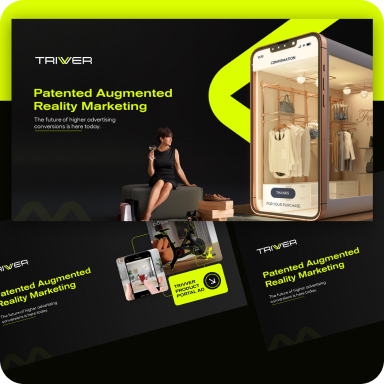
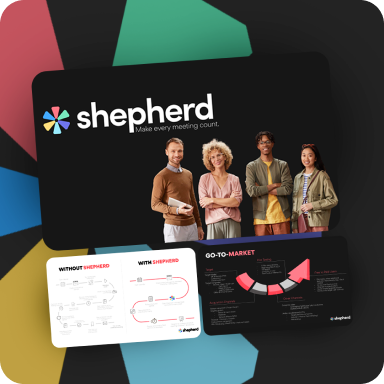
add functionaility

diff --git a/components/ContactUs/ContactUsSection.jsx b/components/ContactUs/ContactUsSection.jsx
@@ -5,7 +5,10 @@ import contactTabletImg from "@/assets/images/contactus/contactus-img.png";
 
 const ContactUsSection = () => {
   return (
-    <div className="w-[80%] flex justify-between gap-10 pb-20 pt-10 bgContactUs mx-auto">
+    <div
+      className="w-[80%] flex justify-between gap-10 pb-20 pt-10 bgContactUs mx-auto"
+      id="contact"
+    >
       <div className=" xl:w-[60%] md:w-[50%] flex flex-col gap-10 ">
         <h3 className="fontGivonic xl:text-[52px] md:text-[36px] font-semibold xl:leading-[60px] md:leading-[50px] capitalize">
           Claim Your{" "}
@@ -23,32 +26,17 @@ const ContactUsSection = () => {
       <form className="xl:w-[40%] md:w-[50%] flex flex-col justify-start items-end xl:gap-7 md:gap-4">
         <div className=" flex flex-col gap-3 w-full">
           <label
-            htmlFor="firstName"
+            htmlFor="fullname"
             className="fontGivonic xl:text-xl md:text-lg font-semibold tracking-[1.5px]"
           >
-            First Name
+            Full Name
           </label>
           <input
             type="text"
-            id="firstName"
-            name="firstName"
+            id="fullname"
+            name="fullname"
             required
             className=" contactInputShadow text-lg font-medium tracking-[1.5px] bg-white xl:py-4 md:py-3 px-4 rounded-lg focus:outline-none"
-          />
-        </div>
-        <div className=" flex flex-col gap-3 w-full">
-          <label
-            htmlFor="lastname"
-            className="fontGivonic xl:text-xl md:text-lg font-semibold tracking-[1.5px]"
-          >
-            Last Name
-          </label>
-          <input
-            type="text"
-            id="lastname"
-            name="lastname"
-            required
-            className=" contactInputShadow xl:text-lg md:text-base font-medium tracking-[1.5px] bg-white xl:py-4 md:py-3 px-4 rounded-lg focus:outline-none"
           />
         </div>
         <div className=" flex flex-col gap-3 w-full">
@@ -56,7 +44,7 @@ const ContactUsSection = () => {
             htmlFor="email"
             className="fontGivonic xl:text-xl md:text-lg font-semibold tracking-[1.5px]"
           >
-            Email
+            Your Email
           </label>
           <input
             type="email"
@@ -68,19 +56,39 @@ const ContactUsSection = () => {
         </div>
         <div className=" flex flex-col gap-3 w-full">
           <label
-            htmlFor="country"
+            htmlFor="phone"
             className="fontGivonic xl:text-xl md:text-lg font-semibold tracking-[1.5px]"
           >
-            Country
+            Phone Number (Optional)
           </label>
           <input
             type="text"
-            id="country"
-            name="country"
+            id="phone"
+            name="phone"
+            // required
+            className=" contactInputShadow xl:text-lg md:text-base font-medium tracking-[1.5px] bg-white xl:py-4 md:py-3 px-4 rounded-lg focus:outline-none"
+          />
+        </div>
+        <div className=" flex flex-col gap-3 w-full">
+          <label
+            htmlFor="message"
+            className="fontGivonic xl:text-xl md:text-lg font-semibold tracking-[1.5px]"
+          >
+            What's on your mind
+          </label>
+          <input
+            type="text"
+            id="message"
+            name="message"
             required
             className=" contactInputShadow xl:text-lg md:text-base font-medium tracking-[1.5px] bg-white xl:py-4 md:py-3 px-4 rounded-lg focus:outline-none"
           />
         </div>
+        <input
+          name="file"
+          type="file"
+          className=" w-full xl:text-lg md:text-base font-medium text-[#7A7A7A] cursor-pointer focus:outline-none"
+        />
         <div className="flex flex-col xl:gap-8 md:gap-5 w-full xl:mt-4 md:mt-2">
           <p className="fontGivonic xl:text-xl md:text-[15px] font-medium capitalize">
             get An instant quote from our customer support or submit the form

diff --git a/components/shared/Footer.jsx b/components/shared/Footer.jsx
@@ -1,3 +1,4 @@
+'use client'
 import Image from "next/image";
 import React from "react";
 import footerImg from "@/assets/images/footer-img.png";
@@ -13,6 +14,9 @@ import trustPilotImg from "@/assets/images/shared/trustpilot.png";
 import Link from "next/link";
 
 const Footer = () => {
+  const scrollToAbout = () => {
+    document.getElementById('contact').scrollIntoView({ behavior: 'smooth' });
+  };
   return (
     <section className=" bg-[#0F0F16] mt-20">
       <div className="xl:w-4/5 md:w-[85%] flex flex-col justify-center items-center gap-16 mx-auto py-24">
@@ -24,6 +28,7 @@ const Footer = () => {
             <button
               className=" xl:text-[22px] md:text-[18px] font-semibold text-[#090909] bg-[#86E2FF] rounded-[15px] py-3 xl:px-6 md:px-4 tracking-wider
             transition-all duration-300 ease-in-out transform-gpu hover:scale-105"
+            onClick={scrollToAbout}
             >
               Claim Your Free Slide
             </button>
@@ -64,25 +69,25 @@ const Footer = () => {
             <h3 className=" text-lg text-[#fff] mb-0">Find Us On</h3>
             <div className=" flex items-center gap-5">
               <Link
-                href={"#"}
+                href={"/"}
                 className=" bg-[#86E2FF] rounded-[50%] py-[10px] px-3 transition-all duration-300 ease-in-out transform-gpu hover:scale-110"
               >
                 <RiInstagramLine className=" text-[26px]" />
               </Link>
               <Link
-                href={"#"}
+                href={"/"}
                 className=" bg-[#86E2FF] rounded-[50%] py-[10px] px-3 transition-all duration-300 ease-in-out transform-gpu hover:scale-110"
               >
                 <FaPinterestP className=" text-[26px]" />
               </Link>
               <Link
-                href={"#"}
+                href={"/"}
                 className=" bg-[#86E2FF] rounded-[50%] py-[10px] px-3 transition-all duration-300 ease-in-out transform-gpu hover:scale-110"
               >
                 <RiLinkedinFill className=" text-[26px]" />
               </Link>
               <Link
-                href={"#"}
+                href={"/"}
                 className=" bg-[#86E2FF] rounded-[50%] py-[10px] px-3 transition-all duration-300 ease-in-out transform-gpu hover:scale-110"
               >
                 <BiBasketball className=" text-[26px]" />

diff --git a/components/pricing/PricingSection.jsx b/components/pricing/PricingSection.jsx
@@ -1,8 +1,12 @@
+"use client";
 import { pricingData } from "@/data";
 import React from "react";
 import { FiCheckCircle } from "react-icons/fi";
 
 const PricingSection = () => {
+  const scrollToAbout = () => {
+    document.getElementById("contact").scrollIntoView({ behavior: "smooth" });
+  };
   return (
     <section className=" bg-pricing xl:w-4/5 md:w-[90%] flex flex-col justify-between md:gap-5 xl:gap-8 mx-auto py-28">
       <h3 className="fontGivonic xl:text-[52px] md:text-[36px] font-semibold xl:leading-[60px] md:leading-[50px] xl:ml-0 md:ml-8 capitalize w-fit">
@@ -22,7 +26,9 @@ const PricingSection = () => {
             } flex flex-col justify-between px-3 pt-3 pb-14`}
           >
             <div
-              className={` pricingCard-${item.id} flex flex-col xl:gap-3 md:gap-1 ${
+              className={` pricingCard-${
+                item.id
+              } flex flex-col xl:gap-3 md:gap-1 ${
                 item.id === 2 ? "justify-end py-4" : " justify-start py-8"
               } w-full rounded-[30px] xl:h-64 px-6`}
             >
@@ -52,7 +58,10 @@ const PricingSection = () => {
               ))}
             </div>
             <div className=" flex flex-col w-[80%] justify-center items-center gap-4 mx-auto">
-              <button className=" w-full bg-[#ECECEC] xl:text-2xl md:text-lg font-medium rounded-[15px] py-3 capitalize transition-all duration-300 ease-in-out transform-gpu hover:bg-[#86e2ff] hover:scale-105">
+              <button
+                className=" w-full bg-[#ECECEC] xl:text-2xl md:text-lg font-medium rounded-[15px] py-3 capitalize transition-all duration-300 ease-in-out transform-gpu hover:bg-[#86e2ff] hover:scale-105"
+                onClick={scrollToAbout}
+              >
                 Get Started
               </button>
             </div>

diff --git a/data.js b/data.js
@@ -2,41 +2,46 @@
 import craftImg1 from "@/assets/images/craft/craft-img-1.png";
 import craftImg1b from "@/assets/images/craft/craft-img-1b.png";
 import craftImg2 from "@/assets/images/craft/craft-img-2.png";
+import craftImg2b from "@/assets/images/craft/craft-img-2b.png";
 import craftImg3 from "@/assets/images/craft/craft-img-3.png";
+import craftImg3b from "@/assets/images/craft/craft-img-3b.png";
 import craftImg4 from "@/assets/images/craft/craft-img-4.png";
+import craftImg4b from "@/assets/images/craft/craft-img-4b.png";
 import craftImg5 from "@/assets/images/craft/craft-img-5.png";
+import craftImg5b from "@/assets/images/craft/craft-img-5b.png";
 import craftImg6 from "@/assets/images/craft/craft-img-6.png";
+import craftImg6b from "@/assets/images/craft/craft-img-6b.png";
 
 export const craftData = [
   {
-    title: "Let's Hop",
+    title: "Karbonx",
     thumbnailSrc: craftImg1,
     modalSrc: craftImg1b,
   },
   {
-    title: "Triver",
+    title: "Shepherd",
     thumbnailSrc: craftImg2,
-    modalSrc: craftImg1b,
+    modalSrc: craftImg2b,
   },
   {
     title: "Writer",
     thumbnailSrc: craftImg3,
-    modalSrc: craftImg1b,
+    modalSrc: craftImg3b,
   },
   {
-    title: "The Numbers",
+    title: "Gamr",
     thumbnailSrc: craftImg4,
-    modalSrc: craftImg1b,
+    modalSrc: craftImg4b,
   },
   {
     title: "The Floorr",
     thumbnailSrc: craftImg5,
-    modalSrc: craftImg1b,
+    modalSrc: craftImg5b,
   },
   {
     title: "Native Voice",
     thumbnailSrc: craftImg6,
-    modalSrc: craftImg1b,
+    modalSrc: craftImg6b,
   },
 ];
 

diff --git a/components/HeroSection.jsx b/components/HeroSection.jsx
@@ -43,6 +43,9 @@ const cardsVariants = {
 
 const HeroSection = () => {
   const [currentCards, setCurrentCards] = useState(1);
+  const scrollToAbout = () => {
+    document.getElementById('contact').scrollIntoView({ behavior: 'smooth' });
+  };
 
   return (
     <>
@@ -59,7 +62,7 @@ const HeroSection = () => {
           onClick={() => setCurrentCards((prev) => (prev === 1 ? 2 : 1))}
         />
         <div className=" text-white z-50 w-5/6 pt-8">
-          <Navbar logo={slideyLogo} />
+          <Navbar logo={slideyLogo} scrollToAbout={scrollToAbout} />
           <div className=" fontGivonic flex justify-between mt-20">
             <h1 className=" w-[40%] 2xl:text-6xl xl:text-5xl md:text-4xl font-semibold tracking-wider 2xl:leading-tight xl:leading-snug md:leading-normal">
               Designing Decks, Pitch Perfectly!
@@ -71,6 +74,7 @@ const HeroSection = () => {
               <button
                 className=" xl:text-[22px] md:text-[20px] font-semibold text-[#090909] bg-[#86e2ff] rounded-[50px] py-3 px-6 tracking-wider
               transition-all duration-300 ease-in-out transform-gpu hover:scale-105"
+              onClick={scrollToAbout}
               >
                 Claim Your Free Slide
               </button>

diff --git a/components/Craft/CraftSection.jsx b/components/Craft/CraftSection.jsx
@@ -33,10 +33,10 @@ const CraftSection = () => {
             <Image src={icon2} alt="icon2" className="mb-2" />
           </div>
           {/* Recent */}
-          <button className=" flex items-center justify-center gap-3 w-fit text-white border border-[#fff] rounded-3xl px-5 py-2">
+          {/* <button className=" flex items-center justify-center gap-3 w-fit text-white border border-[#fff] rounded-3xl px-5 py-2">
             <span>Recent</span>
             <Image src={downIcon} alt="downIcon" />
-          </button>
+          </button> */}
           {/* Cards*/}
           <div className=" grid grid-cols-3 md:gap-5 xl:gap-8">
             {craftData.map((item, i) => (
@@ -65,10 +65,10 @@ const CraftSection = () => {
             ))}
           </div>
           {/* View All */}
-          <button className=" flex items-center justify-center gap-3 w-fit bg-[#86e2ff] rounded-3xl px-5 py-2 mx-auto">
+          {/* <button className=" flex items-center justify-center gap-3 w-fit bg-[#86e2ff] rounded-3xl px-5 py-2 mx-auto">
             <span>View All</span>
             <Image src={craftArrowIcon} alt="downIcon" />
-          </button>
+          </button> */}
         </div>
       </section>
       <ImageModal

diff --git a/components/shared/Navbar.jsx b/components/shared/Navbar.jsx
@@ -3,7 +3,7 @@ import Image from "next/image";
 import Link from "next/link";
 import trustPilotImage from "@/assets/images/shared/trustpilot.png";
 
-const Navbar = ({ logo }) => {
+const Navbar = ({ logo, scrollToAbout }) => {
   return (
     <nav className=" flex justify-between items-center">
       <Image src={logo} alt="logo" className="" />
@@ -11,12 +11,12 @@ const Navbar = ({ logo }) => {
         <Link href={"https://www.trustpilot.com/review/slideyllc.com"}>
           <Image src={trustPilotImage} width={120} className="" />
         </Link>
-        <Link
-          href={"/contactus"}
+        <button
           className=" bg-[#191922] text-white rounded-[20px] pt-2 pb-3 px-6 "
+          onClick={scrollToAbout}
         >
           Contact Us
-        </Link>
+        </button>
       </ul>
     </nav>
   );

diff --git a/components/Testimonials/TestimonialSection.jsx b/components/Testimonials/TestimonialSection.jsx
@@ -110,7 +110,7 @@ const TestimonialSection = () => {
         ))}
       </div>
       <button
-        className=" absolute bottom-[38%] 2xl:right-48 xl:right-20 md:right-24"
+        className=" absolute xl:bottom-[38%] md:bottom-[27%] 2xl:right-48 xl:right-20 md:right-24"
         onClick={handleSlider}
         disabled={transitioning}
       >
